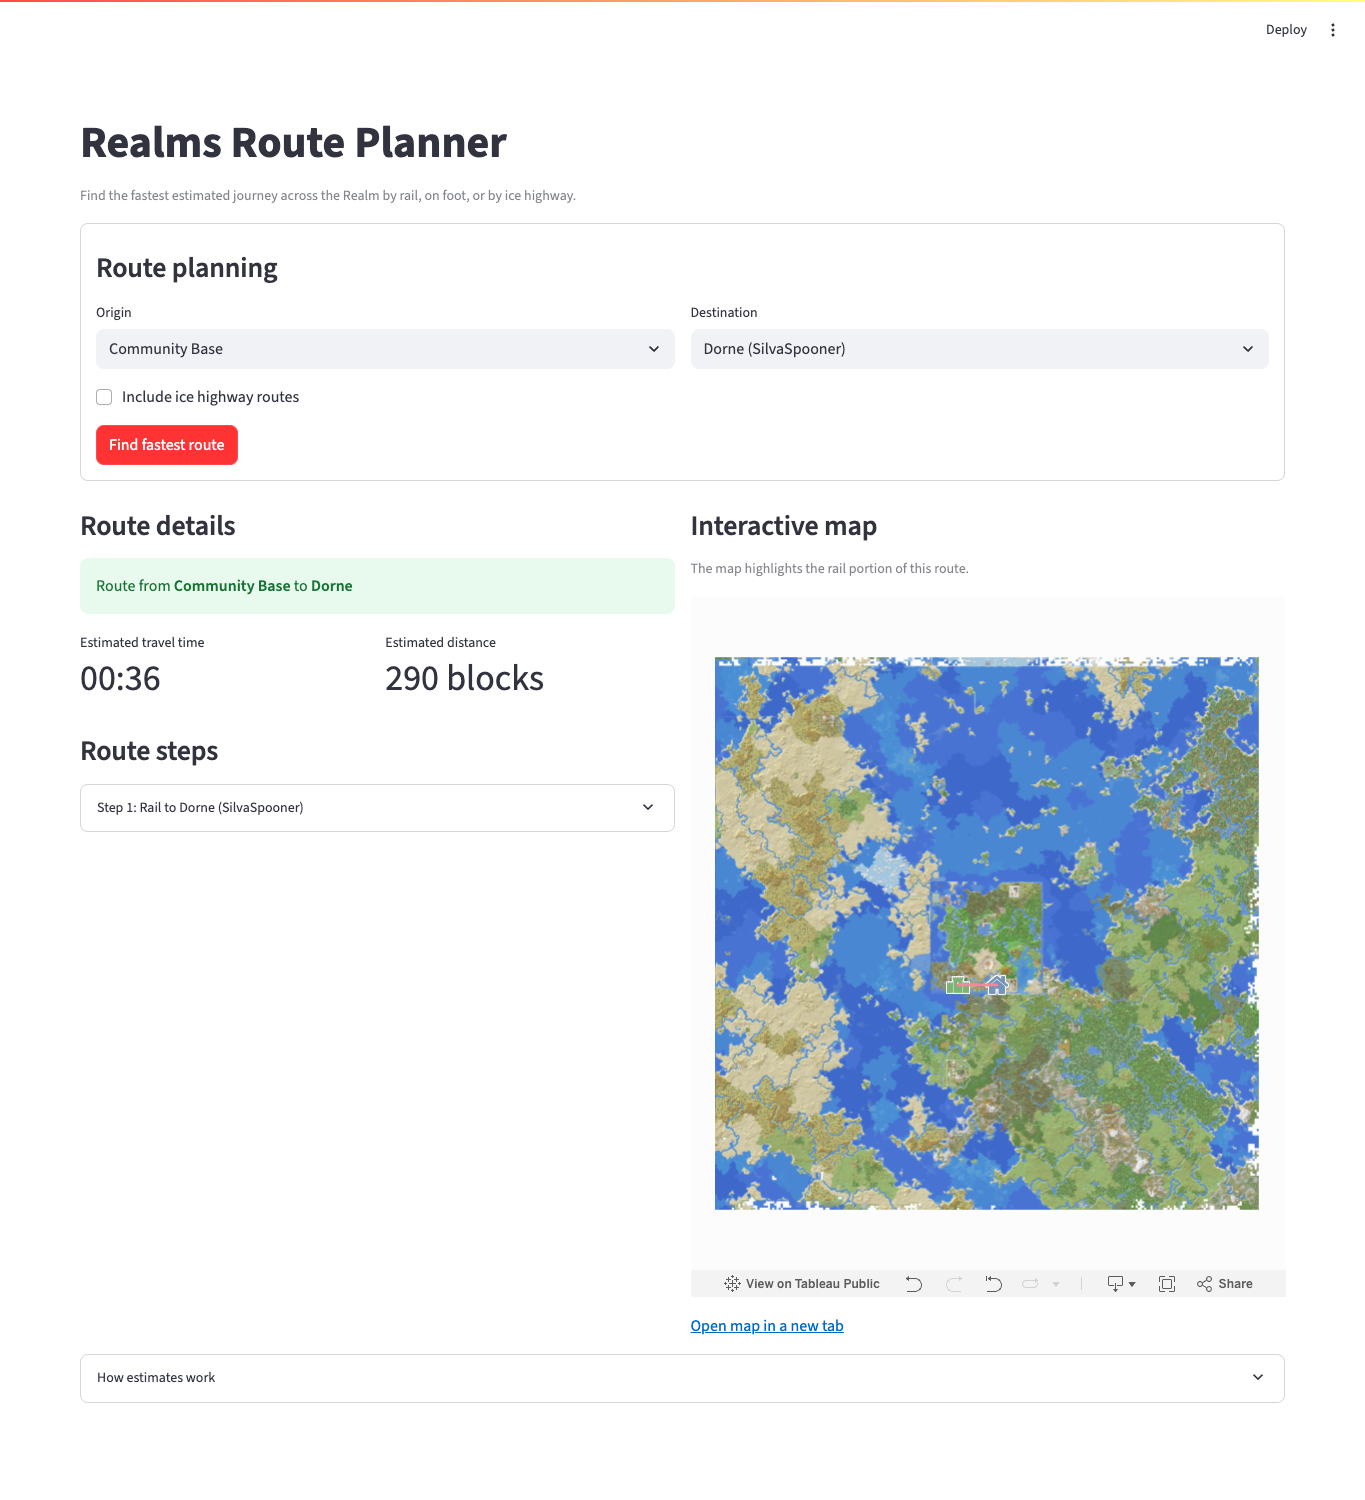
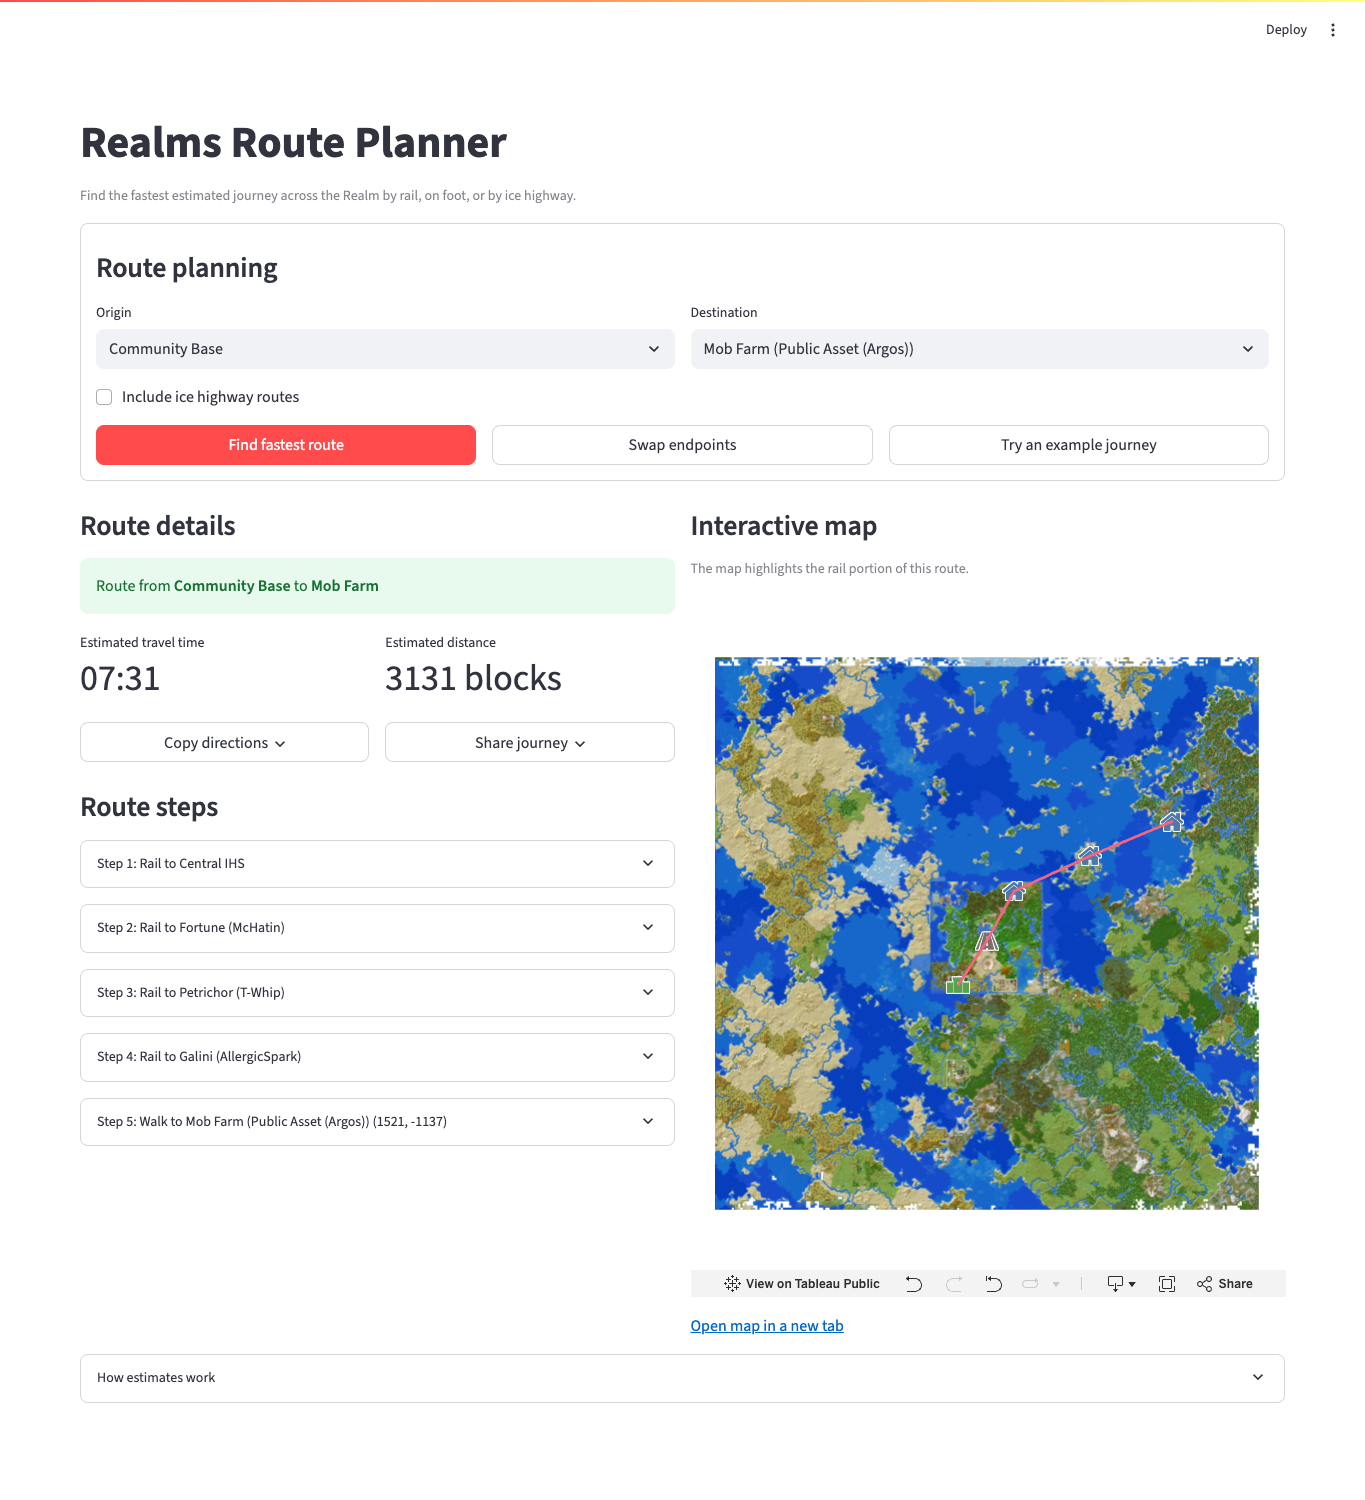
Show a multi-step rail and walking example journey

diff --git a/tests/test_app.py b/tests/test_app.py
@@ -102,11 +102,34 @@ with patch.object(main, "cached_dataset", side_effect=ValueError("Missing column
         self.app.checkbox(key="include_ice").set_value(True)
         self.click("Try an example journey")
         route = self.app.session_state["route_results"]
-        self.assertEqual((route.origin, route.destination), ("Community Base", "Dorne"))
-        self.assertEqual(route.total_time, 36.25)
+        self.assertEqual((route.origin, route.destination), ("Community Base", "Mob Farm"))
+        self.assertEqual(
+            [segment.edge.destination for segment in route.segments],
+            ["Central IHS", "Fortune", "Petrichor", "Galini", "Mob Farm"],
+        )
+        self.assertEqual(
+            [segment.edge.mode.value for segment in route.segments],
+            ["rail", "rail", "rail", "rail", "walk"],
+        )
         self.assertFalse(self.app.checkbox(key="include_ice").value)
-        self.assertTrue(route.rail_paths)
+        self.assertEqual(
+            route.rail_paths,
+            ("Comm to C IHS", "C IHS to Fortune", "Fortune to Petrichor", "Petrichor to Galini"),
+        )
         self.assertEqual(len(self.app.get("iframe")), 1)
+
+    def test_example_copy_and_share_include_the_complete_journey(self):
+        self.click("Try an example journey")
+        route = self.app.session_state["route_results"]
+        directions = self.app.code[0].value
+        for number, segment in enumerate(route.segments, start=1):
+            self.assertIn(f"{number}. ", directions)
+            self.assertIn(segment.edge.destination, directions)
+        self.assertIn("5. Walk to Mob Farm", directions)
+        map_params = parse_qs(urlsplit(self.app.get("iframe")[0].proto.src).query)
+        self.assertEqual(map_params["Path"], [",".join(route.rail_paths)])
+        self.open_link(parse_qs(urlsplit(self.app.code[1].value).query))
+        self.assertEqual(self.app.session_state["route_results"], route)
 
     def test_swap_uses_current_form_values_and_preserves_ice(self):
         self.search("Community Base", "Dorne")

diff --git a/main.py b/main.py
@@ -26,7 +26,7 @@ from realms.tableau import map_url
 
 DATA_PATH = Path(__file__).resolve().parent / "Realms Map Dataset.xlsx"
 LOGGER = logging.getLogger(__name__)
-EXAMPLE = JourneyQuery("Community Base", "Dorne")
+EXAMPLE = JourneyQuery("Community Base", "Mob Farm")
 
 
 @st.cache_data(show_spinner=False)
@@ -187,7 +187,7 @@ def main() -> None:
             on_click=use_example,
             disabled=not example_available,
             use_container_width=True,
-            help="Community Base to Dorne, using the existing rail network.",
+            help="Community Base to Mob Farm: four rail legs and a final walk.",
         )
         if not example_available:
             st.caption("The example is unavailable because its locations have changed.")

diff --git a/README.md b/README.md
@@ -4,7 +4,7 @@ A route planner for a Minecraft Realm. It compares estimated travel times by rai
 
 [Open the app](https://realms-map-app.onrender.com/) · [View the Tableau map](https://public.tableau.com/views/WayfinderEmbed/Wayfinder)
 
-![A route from Community Base to Dorne with estimated travel time and the rail segment highlighted on the Tableau map](assets/route-example.png)
+![A five-step route from Community Base to Mob Farm with estimated travel time and the rail segments highlighted on the Tableau map](assets/route-example.png)
 
 ## What it does
 
@@ -13,15 +13,15 @@ A route planner for a Minecraft Realm. It compares estimated travel times by rai
 - Shows travel time, distance, individual legs, and walking coordinates.
 - Filters the Tableau map to the route's rail segments. Walking and ice legs remain in the written directions.
 - Swaps endpoints, copies directions, and shares a journey link with its ice-highway setting.
-- Offers a one-click example from Community Base to Dorne using the existing rail network.
+- Offers a five-step example from Community Base to Mob Farm, combining the existing rail network with a final walk.
 
 ## Using the route controls
 
-Choose both locations and select **Find fastest route**. **Swap endpoints** reverses the current selections and calculates the return journey when both locations are selected. It keeps your ice-highway setting. **Try an example journey** selects Community Base to Dorne with ice disabled and calculates it immediately.
+Choose both locations and select **Find fastest route**. **Swap endpoints** reverses the current selections and calculates the return journey when both locations are selected. It keeps your ice-highway setting. **Try an example journey** selects Community Base to Mob Farm with ice disabled and calculates it immediately: rail through Central IHS, Fortune, Petrichor, and Galini, then a walk to the farm.
 
 After a search, **Copy directions** opens the journey text, including coordinates and estimated times. Use the copy icon in its top-right corner, or select the text manually. **Share journey** offers a copyable link that restores both locations and the ice setting and calculates the route when opened. The browser address also reflects the last completed search, so it can be bookmarked. Copying and sharing refer to the displayed result, not unsubmitted form edits.
 
-Links use the current app address and exact workbook location names, for example `?from=Community+Base&to=Dorne&ice=0`. They recalculate using the workbook available when opened; they are not frozen route snapshots. A renamed or removed location produces a warning rather than a guessed substitute. Local-preview links stay local.
+Links use the current app address and exact workbook location names, for example `?from=Community+Base&to=Mob+Farm&ice=0`. They recalculate using the workbook available when opened; they are not frozen route snapshots. A renamed or removed location produces a warning rather than a guessed substitute. Local-preview links stay local.
 
 ## Run locally
 
